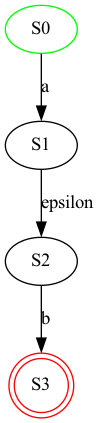
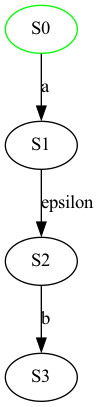
fix dictionary boolean entry in regex to NFA

diff --git a/MyRE/regex_to_NFA.py b/MyRE/regex_to_NFA.py
@@ -193,7 +193,7 @@ def WriteJsonFile(NFA , filename):
                         print("")
                     else:
                        data["S"+str(state.stateID)]=  dict()
-                       data["S"+str(state.stateID)]["IsTerminating"]="true"
+                       data["S"+str(state.stateID)]["IsTerminating"] = True
                     for char, dest_state in state.edges:
                         if data.get("S"+str(state.stateID),{}).get(str(char)) is not None:
                             
@@ -213,7 +213,7 @@ def WriteJsonFile(NFA , filename):
                 print("")
             else:
                        data["S"+str(state.stateID)]= dict()
-                       data["S"+str(state.stateID)]["IsTerminating"]="false"
+                       data["S"+str(state.stateID)]["IsTerminating"] = False
                        
             if data.get("S"+str(state.stateID))  is not None:
                 if data.get("S"+str(state.stateID),{}).get(str(char))is not None:

diff --git a/MyRE/NFA_to_DFA.py b/MyRE/NFA_to_DFA.py
@@ -120,6 +120,7 @@ def get_accepting_states(DFA):
     for state in DFA.keys():
         if state != "StartingState" and DFA.get(state).get('IsTerminating') == True:
             accepting_states.append(state)
+            print(state)
     return accepting_states
 
 def get_non_accepting_states(DFA):
